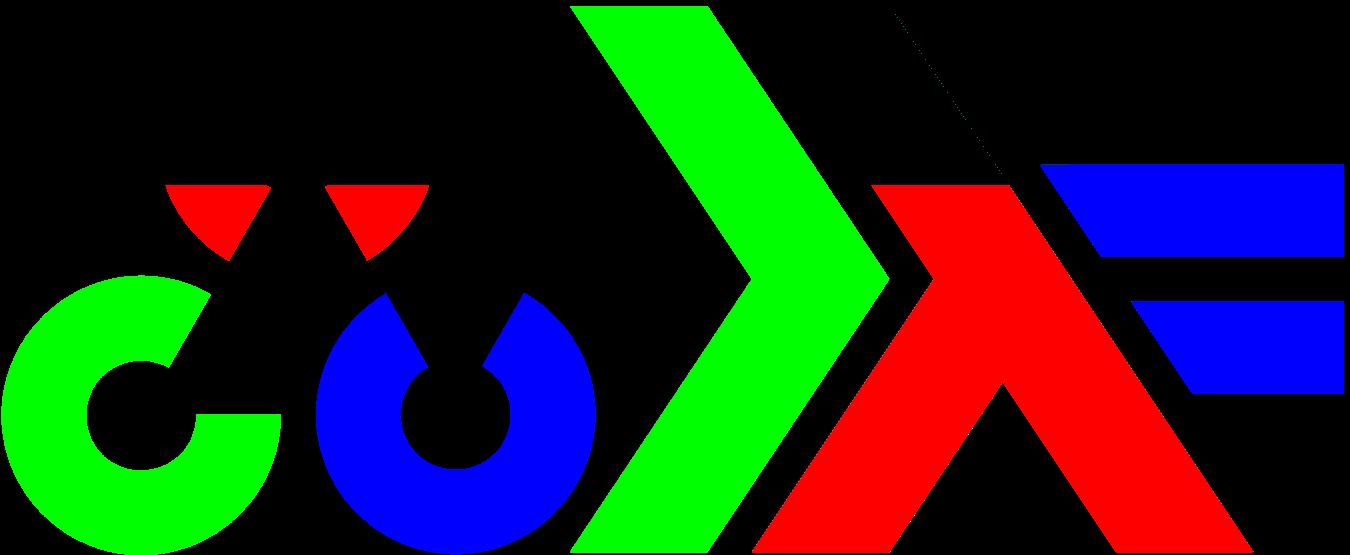
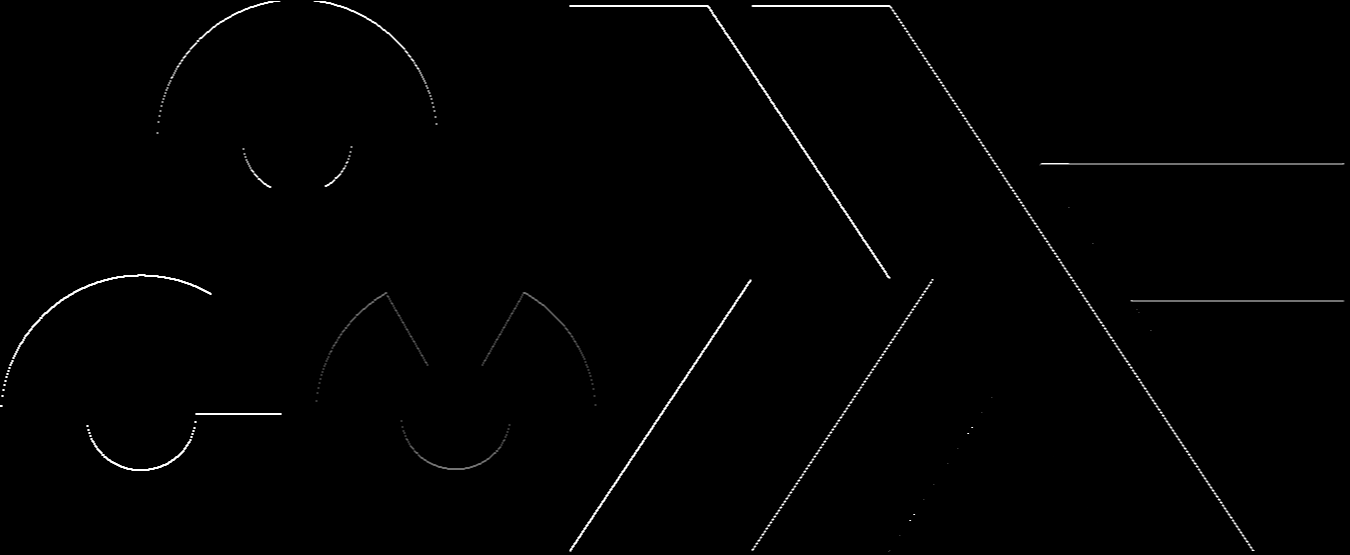
1

diff --git a/src/main/java/ru/sfedu/cv/service/impl/ImageServiceImpl.java b/src/main/java/ru/sfedu/cv/service/impl/ImageServiceImpl.java
@@ -2,35 +2,31 @@ package ru.sfedu.cv.service.impl;
 
 import org.apache.logging.log4j.LogManager;
 import org.apache.logging.log4j.Logger;
+import org.opencv.core.CvType;
 import org.opencv.core.Mat;
 import org.opencv.imgcodecs.Imgcodecs;
-import org.springframework.beans.factory.annotation.Autowired;
+import org.opencv.imgproc.Imgproc;
+import org.springframework.beans.factory.annotation.Value;
 import org.springframework.stereotype.Service;
-import ru.sfedu.cv.Constant;
 import ru.sfedu.cv.service.ImageService;
-import ru.sfedu.cv.service.OSService;
 
-import java.util.List;
-import java.util.Locale;
+import javax.annotation.PostConstruct;
+
 
 @Service
 public class ImageServiceImpl implements ImageService {
     private static final Logger log = LogManager.getLogger(ImageServiceImpl.class);
 
-    protected final List<OSService> osServices;
+    @Value("${native.opencv.path}")
+    private String pathToNativeLib;
 
-    @Autowired
-    public ImageServiceImpl(List<OSService> osServices) {
-        this.osServices = osServices;
-
-        osServices.stream()
-                .filter(os -> os.getType().equals(getOS_Type()))
-                .forEach(OSService::loadLibrary);
+    @PostConstruct
+    void initNativeLibrary() {
+        System.load(pathToNativeLib);
     }
 
-
     @Override
-    public Mat getBlackChannel(Integer channel, String imgPath) {
+    public Mat getLab2(Integer channel, String imgPath) {
         Mat img = Imgcodecs.imread(imgPath);
         long totalBytes = (img.total() + img.elemSize());
         byte[] buffer = new byte[Math.toIntExact(totalBytes)];
@@ -42,14 +38,23 @@ public class ImageServiceImpl implements ImageService {
         return img;
     }
 
-    protected Constant.OS_TYPE getOS_Type() {
-        final String os = System.getProperty("os.name").toUpperCase(Locale.ENGLISH);
-        return switch (os) {
-            case "WINDOWS" -> Constant.OS_TYPE.WINDOWS;
-            case "LINUX" -> Constant.OS_TYPE.LINUX;
-            default -> Constant.OS_TYPE.OTHER;
-        };
+    @Override
+    public Mat getSobel(String imgPath) {
+        Mat grayImage = new Mat();
+        Mat srcImage = Imgcodecs.imread(imgPath, Imgcodecs.IMREAD_COLOR);
+        Imgproc.cvtColor(srcImage, grayImage, Imgproc.COLOR_BGR2GRAY);
+        Mat dstSobelX = new Mat();
+        Imgproc.Sobel(grayImage, dstSobelX, CvType.CV_32F, 1, 0);
+        Mat dstSobelY = new Mat();
+        Imgproc.Sobel(grayImage, dstSobelY, CvType.CV_32F, 0, 1);
+        return dstSobelY;
+//        Imgcodecs.imwrite(imgPath, dstSobelX);
+//        Imgcodecs.imwrite(destDirPath + "SobelY_" + srcFileName, dstSobelY);
     }
 
+    @Override
+    public Mat getLaplace(String imgPath) {
+        return null;
+    }
 
 }

diff --git a/src/test/java/ru/sfedu/cv/service/impl/ImageServiceImplTest.java b/src/test/java/ru/sfedu/cv/service/impl/ImageServiceImplTest.java
@@ -21,9 +21,8 @@ class ImageServiceImplTest {
     }
 
     @Test
-    void getBlackChannel() {
-        Mat mat = imageService.getBlackChannel(5, TEST_IMAGE);
-
+    void getLab2() {
+        Mat mat = imageService.getSobel(TEST_IMAGE);
         Imgcodecs.imwrite("/home/sergey/IdeaProjects/cv/imgs/0noise.png", mat);
     }
 

diff --git a/src/main/java/ru/sfedu/cv/service/ImageService.java b/src/main/java/ru/sfedu/cv/service/ImageService.java
@@ -3,5 +3,7 @@ package ru.sfedu.cv.service;
 import org.opencv.core.Mat;
 
 public interface ImageService {
-    Mat getBlackChannel(Integer channel, String imgPath);
+    Mat getLab2(Integer channel, String imgPath);
+    Mat getSobel(String imgPath);
+    Mat getLaplace(String imgPath);
 }
